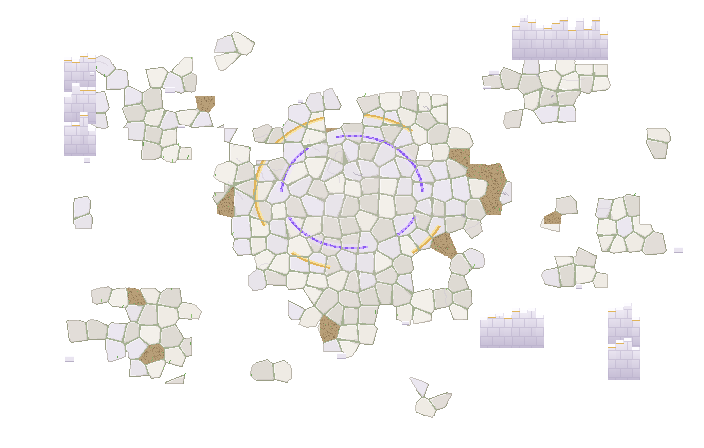
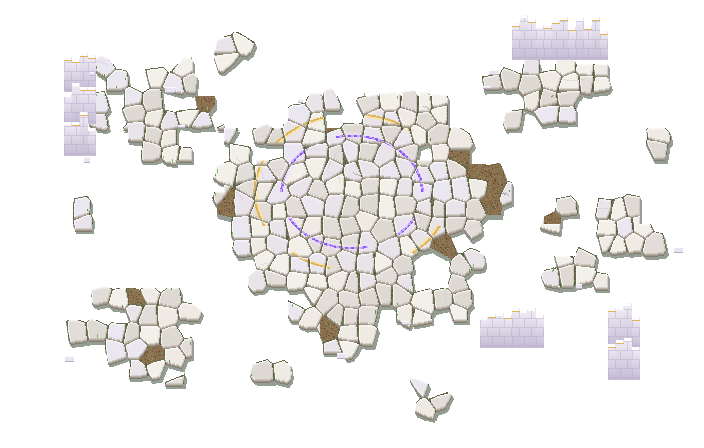
Ruins floor: stones with thickness and shadow, like the dirt mound
Each flagstone is now layered like the dig mound sprite: a soft shadow on
the grass, a darker 3px side under the stone, then a top face lit on the
upper/left edge and shaded on the lower/right. Gaps between stones show
dark soil and moss, so the paving looks set into the ground instead of
pasted on top.

Claude-Session: https://claude.ai/code/session_01TTfJFHpXzGENbNp8eXSsK8

diff --git a/tools/make_pixel_temple.py b/tools/make_pixel_temple.py
@@ -117,8 +117,12 @@ def decor_temple():
         return 3
 
     STONES = ['#efebe4', '#e8e4ea', '#f3f0ea', '#e2ddd8', '#ebe7f0', '#dedad3']
-    floor = [[False] * W for _ in range(H)]
-    sid = [[None] * W for _ in range(H)]
+    # 先算出每一塊石板的「頂面」（縫以外的部分）與顏色，再像土堆那樣一層一層疊出立體感：
+    #   草地上的影子 → 石板的側面（頂面往下 3px 的厚度，比較暗）→ 頂面（上緣受光、下緣稍暗）
+    # 石板之間的縫看得到下面那塊的側面和深色的土與青苔，所以每塊石板都像微微凸起、嵌在地上。
+    top = [[None] * W for _ in range(H)]          # 頂面的顏色
+    patch = [[False] * W for _ in range(H)]       # 整片地板（含縫）
+    dirt = set()
     for y in range(H):
         for x in range(W):
             gx, gy = ORIGIN[0] + x // T, ORIGIN[1] + y // T
@@ -126,72 +130,98 @@ def decor_temple():
             sgx, sgy = stone_tile(k)
             if cell(sgx, sgy) != 'm':                                        # 石板中心落在地板格上才有這塊石板：
                 continue                                                     # 邊緣就會沿著石板的形狀，不會是方的
-            if cell(gx, gy) != 'm' and gap < 1.3:
+            if cell(gx, gy) != 'm' and gap < 1.6:
                 continue
             near_altar = math.hypot(sgx + 0.5 - ALTAR_C[0], (sgy + 0.5 - ALTAR_C[1]) * 1.25) < 2.6
             ed = edge_dist(gx, gy)
             if not near_altar and ed <= 1 and rnd('gone', k) < (0.42 if ed == 0 else 0.18):
                 continue                                                     # 整塊不見，露出草地
-            floor[y][x] = True
-            sid[y][x] = k
-            lx, ly = x % T, y % T
-            if not near_altar and ed >= 1 and rnd('dirt', k) < 0.07:        # 少一塊，露出泥土
-                n = rnd('soil', x, y)
-                c = C('#b89f78') if n < 0.75 else C('#a48a64') if n < 0.93 else C('#8a7352')
-                if n > 0.985:
-                    c = C('#7fb069')                                         # 泥土裡冒出的小草
-                px(im, x, y, c)
-                sid[y][x] = ('dirt',)
+            patch[y][x] = True
+            if not near_altar and ed >= 1 and rnd('dirt', k) < 0.07:        # 少一塊，露出泥土（凹下去）
+                dirt.add((x, y))
                 continue
-            base = STONES[int(rnd('tone', k) * len(STONES))]
-            sx_, sy_ = seeds[k]
-            # 平放的石板：左上邊緣受光、右下邊緣稍暗（俯視的地面感），中間平平的
-            c = C(base)
-            if gap < 1.3:
-                moss = 0.25 + 0.5 * (1 - ed / 3)                              # 縫：越靠外圍越多青苔
-                c = mix('#c7c2bd', '#8fa676', moss)
-            elif gap < 2.6:
-                c = mix(base, '#ffffff', 0.55) if (x - sx_) + (y - sy_) < 0 else mix(base, '#b9b2ae', 0.35)
-            if (x, y) in veins and gap >= 1.3:
+            if gap < 1.6:
+                continue                                                     # 縫
+            lx, ly = x % T, y % T
+            c = C(STONES[int(rnd('tone', k) * len(STONES))])
+            if (x, y) in veins:
                 c = mix(c, '#cdc6d3', 0.45)
-            # 殘留的鑲嵌：以召喚台為中心的金色環與紫色符文環，斷斷續續，只畫在還留著的地板上
+            # 殘留的鑲嵌：以召喚台為中心的金色環與紫色符文環，斷斷續續
             d = altar_d(gx, gy, lx, ly)
             ang = math.atan2((gy + (ly + 0.5) / T - ALTAR_C[1]) * 1.25, gx + (lx + 0.5) / T - ALTAR_C[0])
             seg = int((ang + math.pi) / math.tau * 14)
-            if gap >= 1.3:
-                if 2.95 < d < 3.08 and rnd('gold', seg) > 0.35:
-                    c = C(GOLD_L if d < 3.01 else GOLD)
-                if 2.15 < d < 2.24 and rnd('vio', seg) > 0.25:
-                    c = C(VIOLET if (x // 3 + y // 3) % 2 else VIOLET_L)
-                elif 2.05 < d < 2.34 and rnd('vio', seg) > 0.25:
-                    c = mix(c, VIOLET_G, 0.45)
-            px(im, x, y, c)
-    # 石板的外緣：和草地交界處一圈淡淡的暗色（石板嵌在土裡），再讓草葉長進石板邊緣
-    for y in range(1, H - 1):
-        for x in range(1, W - 1):
-            if not floor[y][x] or sid[y][x] == ('dirt',):
+            if 2.95 < d < 3.08 and rnd('gold', seg) > 0.35:
+                c = C(GOLD_L if d < 3.01 else GOLD)
+            if 2.15 < d < 2.24 and rnd('vio', seg) > 0.25:
+                c = C(VIOLET if (x // 3 + y // 3) % 2 else VIOLET_L)
+            elif 2.05 < d < 2.34 and rnd('vio', seg) > 0.25:
+                c = mix(c, VIOLET_G, 0.45)
+            top[y][x] = c
+    istop = lambda x, y: 0 <= x < W and 0 <= y < H and top[y][x] is not None   # noqa: E731
+    DEPTH = 3
+    # 1) 草地上的影子：整片地板往右下錯開的地方
+    for y in range(H):
+        for x in range(W):
+            if patch[y][x]:
                 continue
-            out = [not floor[y + j][x + i] for i, j in ((1, 0), (-1, 0), (0, 1), (0, -1))]
-            if any(out):
-                px(im, x, y, mix(im.getpixel((x, y)), '#8d8676', 0.45))
-    for i in range(900):                                                     # 草葉：從邊緣往石板上長
-        x, y = int(rnd('gx', i) * W), int(rnd('gy', i) * H)
-        if not (2 <= x < W - 2 and 3 <= y < H - 1) or not floor[y][x]:
-            continue
-        if all(floor[y + j][x + i2] for i2 in (-2, 0, 2) for j in (-2, 0, 2)):
-            continue                                                         # 只在靠邊的地方長
-        hgt = 2 + int(rnd('gh', i) * 3)
-        col = '#6fa85a' if rnd('gc', i) < 0.6 else '#8cc06e'
-        for t in range(hgt):
-            px(im, x + (t if rnd('gd', i) < 0.3 else 0) // 2, y - t, col)
-    # 細細的裂縫
+            for dx, dy in ((-1, -2), (0, -3), (-2, -4), (-2, -5), (-1, -5), (0, -1)):
+                X, Y = x + dx, y + dy
+                if 0 <= X < W and 0 <= Y < H and patch[Y][X]:
+                    blend_px(im, x, y, (30, 48, 26, 120))
+                    break
+    # 2) 縫與泥土：深色的土，縫裡長青苔
+    for y in range(H):
+        for x in range(W):
+            if not patch[y][x] or istop(x, y):
+                continue
+            if (x, y) in dirt:
+                n = rnd('soil', x, y)
+                c = C('#8f7552') if n < 0.7 else C('#7a6244') if n < 0.92 else C('#5f4b33')
+                if n > 0.985:
+                    c = C('#6fa85a')
+            else:
+                c = C('#6f7d55') if rnd('moss', x, y) < 0.55 else C('#5d5a48')
+            px(im, x, y, c)
+    # 3) 石板的側面（厚度）：頂面往下 DEPTH 像素，被別的頂面蓋住的地方不畫
+    for y in range(H):
+        for x in range(W):
+            if not istop(x, y):
+                continue
+            for d_ in range(1, DEPTH + 1):
+                if y + d_ < H and not istop(x, y + d_) and (patch[y + d_][x] or d_ <= DEPTH):
+                    px(im, x, y + d_, C('#b9b0a4') if d_ == 1 else C('#9d9488') if d_ == 2 else C('#857c72'))
+    # 4) 頂面：上緣與左緣受光、下緣與右緣稍暗
+    for y in range(H):
+        for x in range(W):
+            c = top[y][x]
+            if c is None:
+                continue
+            if not istop(x, y - 1) or not istop(x - 1, y):
+                c = mix(c, '#ffffff', 0.6)
+            elif not istop(x, y + 1) or not istop(x + 1, y):
+                c = mix(c, '#a59d93', 0.35)
+            elif not istop(x, y - 2):
+                c = mix(c, '#ffffff', 0.25)
+            px(im, x, y, c)
+    # 細細的裂縫（只在頂面上）
     for _ in range(14):
         x, y = r.randrange(W), r.randrange(H)
         for _ in range(r.randrange(5, 14)):
-            if 0 <= x < W and 0 <= y < H and floor[y][x] and sid[y][x] != ('dirt',):
-                px(im, x, y, mix(im.getpixel((x, y)), '#a39cae', 0.6))
+            if istop(x, y) and istop(x, y - 1) and istop(x, y + 1):
+                px(im, x, y, mix(im.getpixel((x, y)), '#8f889a', 0.6))
             x += r.choice((-1, 1, 1))
             y += r.choice((0, 1, -1))
+    # 草葉：從地板外緣往石板上長一點
+    for i in range(700):
+        x, y = int(rnd('gx', i) * W), int(rnd('gy', i) * H)
+        if not (2 <= x < W - 2 and 3 <= y < H - 1) or not patch[y][x]:
+            continue
+        if all(patch[y + j][x + i2] for i2 in (-3, 0, 3) for j in (-3, 0, 3)):
+            continue
+        hgt = 2 + int(rnd('gh', i) * 3)
+        col = '#5f9a4c' if rnd('gc', i) < 0.6 else '#86bd68'
+        for t in range(hgt):
+            px(im, x, y - t, col)
     # 斷牆：白色大理石塊疊成的矮牆，頂端高低不平，比佔地那格往上高出一截
     for (gx, gy), c in sorted(grid.items(), key=lambda kv: kv[0][1]):
         if c != 'R':
@@ -225,7 +255,7 @@ def decor_temple():
         gx, gy = spots[int(rnd('rub', i) * len(spots))]
         x = (gx - ORIGIN[0]) * T + int(rnd('rx', i) * 44) - 6
         y = (gy - ORIGIN[1]) * T + int(rnd('ry', i) * 44) - 6
-        if not (0 <= x < W - 12 and 0 <= y < H - 8) or floor[min(H - 1, y + 3)][min(W - 1, x + 3)]:
+        if not (0 <= x < W - 12 and 0 <= y < H - 8) or patch[min(H - 1, y + 3)][min(W - 1, x + 3)]:
             continue
         w, h = 3 + int(rnd('rw', i) * 7), 2 + int(rnd('rh', i) * 4)
         rect(im, x, y, x + w, y + h, '#e9e4f0')
